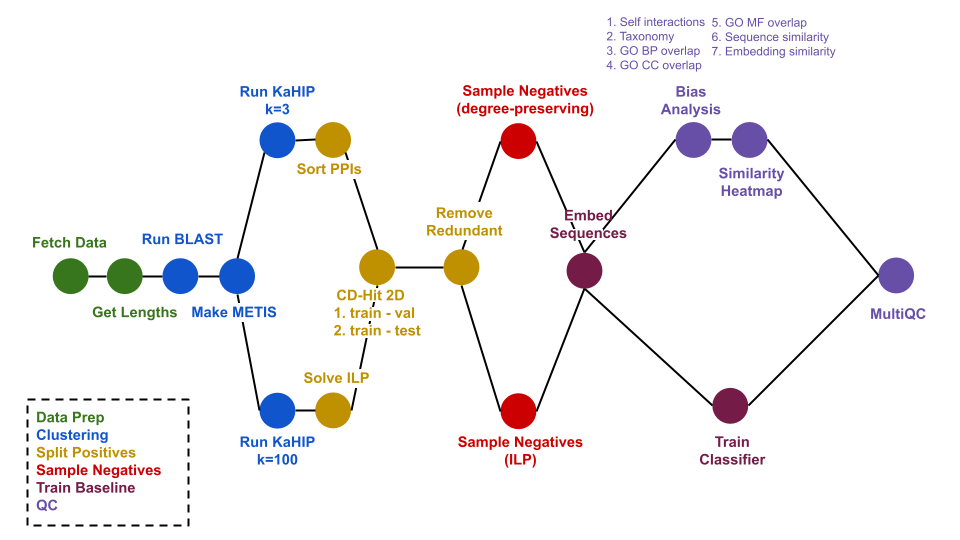
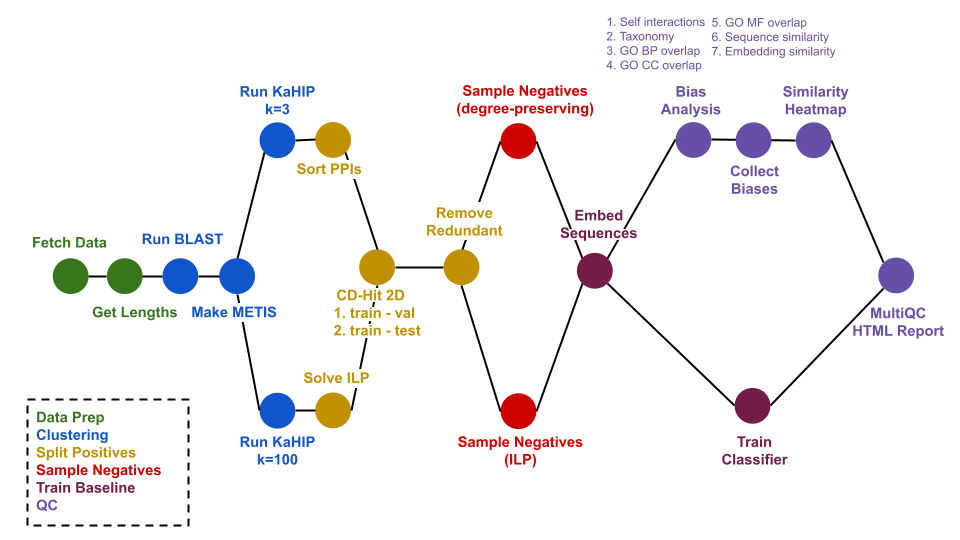
fix for fetch_batch to not use stream anymore but paginated batch queries. Made pipeline overview prettier

diff --git a/bin/fetch_data.py b/bin/fetch_data.py
@@ -9,10 +9,11 @@ import urllib.error
 import urllib.parse
 import urllib.request
 
-UNIPROT_URL      = "https://rest.uniprot.org/uniprotkb/stream"
+UNIPROT_URL      = "https://rest.uniprot.org/uniprotkb/search"
 UNIPROT_FASTA_URL = "https://rest.uniprot.org/uniprotkb/{acc}.fasta"
 UNIPARC_URL      = "https://rest.uniprot.org/uniparc/search"
 BATCH_SIZE = 100
+SEARCH_PAGE_SIZE = 500  # UniProt's documented max page size for /uniprotkb/search
 
 
 class InvalidAccessionBatch(Exception):
@@ -79,29 +80,33 @@ _STREAM_ERROR_MARKER = "error encountered when streaming data"
 
 
 def _is_stream_error(text: str) -> bool:
-    """True if `text` is UniProt's own error page for a /stream request that
-    failed server-side after the response had already started (HTTP 200), so
-    it never raises HTTPError/URLError and would otherwise look like a
+    """True if `text` is UniProt's own error page for a request that failed
+    server-side after the response had already started (HTTP 200), so it
+    never raises HTTPError/URLError and would otherwise look like a
     successful-but-unparseable TSV response."""
     return _STREAM_ERROR_MARKER in text.lower()
 
 
-def fetch_batch(accessions, retries=3):
-    """Batch request returning accession, sequence, GO IDs, and taxon ID as TSV.
+def _next_page_url(link_header):
+    """Parse the RFC 5988 `Link` header UniProt returns on /search responses
+    and return the rel="next" URL, or None if this was the last page."""
+    if not link_header:
+        return None
+    for part in link_header.split(","):
+        segments = [s.strip() for s in part.split(";")]
+        if len(segments) >= 2 and segments[1] == 'rel="next"' and segments[0].startswith("<"):
+            return segments[0].strip("<>")
+    return None
 
-    accessions should be canonical (no isoform suffix) to ensure UniProt matches them.
-    """
-    query = " OR ".join(f"accession:{acc}" for acc in accessions)
-    params = urllib.parse.urlencode({
-        "query": query,
-        "format": "tsv",
-        "fields": "accession,sequence,go_p,go_f,go_c,organism_id",
-    })
-    req = urllib.request.Request(f"{UNIPROT_URL}?{params}")
+
+def _fetch_page(url, retries=3):
+    """Fetch one page from /uniprotkb/search, returning (body_text, next_page_url_or_None)."""
+    req = urllib.request.Request(url)
     for attempt in range(retries):
         try:
             with urllib.request.urlopen(req, timeout=120, context=_ssl_context()) as resp:
                 text = resp.read().decode("utf-8")
+                next_url = _next_page_url(resp.headers.get("Link"))
         except urllib.error.HTTPError as exc:
             if exc.code == 400:
                 # UniProt rejects the entire OR-joined query if any accession in
@@ -112,26 +117,60 @@ def fetch_batch(accessions, retries=3):
                 time.sleep(2 ** attempt)
                 continue
             raise RuntimeError(
-                f"Failed to fetch batch after {retries} attempts: {exc}"
+                f"Failed to fetch page after {retries} attempts: {exc}"
             ) from exc
         except urllib.error.URLError as exc:
             if attempt < retries - 1:
                 time.sleep(2 ** attempt)
                 continue
             raise RuntimeError(
-                f"Failed to fetch batch after {retries} attempts: {exc}"
+                f"Failed to fetch page after {retries} attempts: {exc}"
             ) from exc
+        else:
+            if _is_stream_error(text):
+                if attempt < retries - 1:
+                    time.sleep(2 ** attempt)
+                    continue
+                raise RuntimeError(
+                    f"UniProt's search endpoint failed after {retries} attempts: "
+                    f"{text.strip()[:200]!r}"
+                )
+            return text, next_url
+    raise RuntimeError(f"fetch_page called with retries={retries} <= 0")
 
-        if _is_stream_error(text):
-            if attempt < retries - 1:
-                time.sleep(2 ** attempt)
-                continue
-            raise RuntimeError(
-                f"UniProt's stream endpoint failed after {retries} attempts: "
-                f"{text.strip()[:200]!r}"
-            )
 
-        return text
+def fetch_batch(accessions, retries=3):
+    """Batch request returning accession, sequence, GO IDs, and taxon ID as TSV.
+
+    accessions should be canonical (no isoform suffix) to ensure UniProt matches them.
+    Uses UniProt's paginated /uniprotkb/search endpoint (per their guidance for
+    fetching large numbers of results, https://www.uniprot.org/help/pagination)
+    rather than /stream, which holds one connection open for the whole result
+    set and is more prone to being cut off by transient server-side errors.
+    Follows the `Link: rel="next"` cursor until UniProt reports no more pages
+    (in practice always one page here, since BATCH_SIZE <= SEARCH_PAGE_SIZE).
+    """
+    query = " OR ".join(f"accession:{acc}" for acc in accessions)
+    params = urllib.parse.urlencode({
+        "query": query,
+        "format": "tsv",
+        "fields": "accession,sequence,go_p,go_f,go_c,organism_id",
+        "size": SEARCH_PAGE_SIZE,
+    })
+    url = f"{UNIPROT_URL}?{params}"
+
+    header = None
+    rows = []
+    while url:
+        text, url = _fetch_page(url, retries)
+        lines = text.splitlines()
+        if not lines:
+            break
+        if header is None:
+            header = lines[0]
+        rows.extend(lines[1:])
+
+    return "\n".join([header or "", *rows])
 
 
 def fetch_uniparc_entry(acc, retries=3):